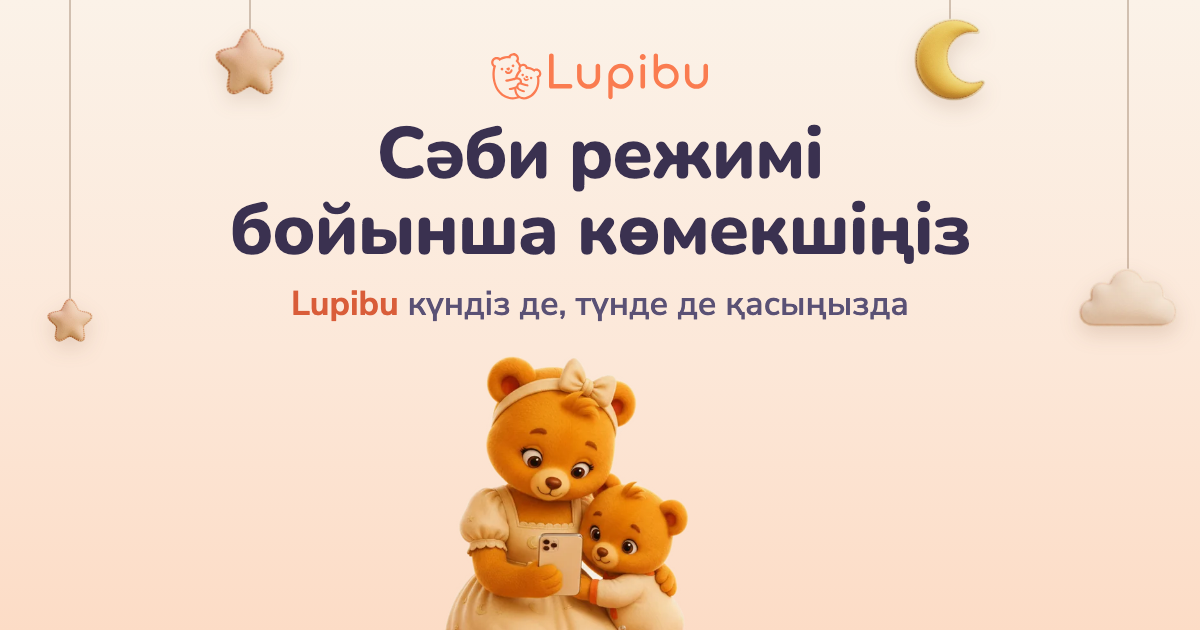
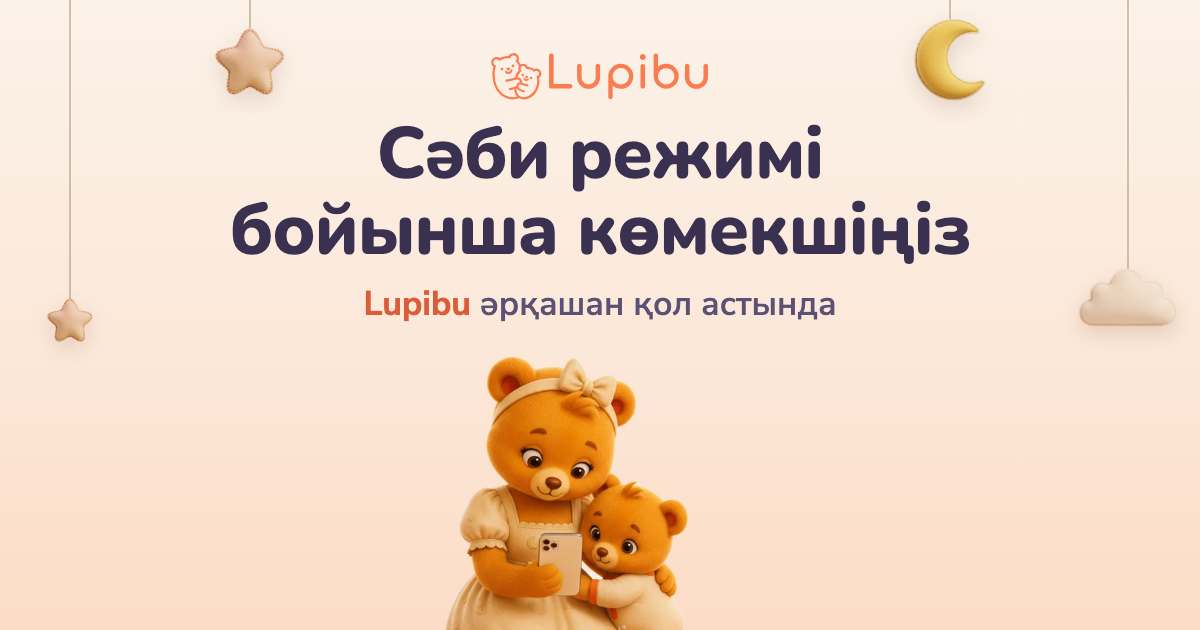
Under the headline: «Lupibu всегда под рукой»
The owner's wording replaces «Lupibu рядом днём и ночью»: with the headline it reads as one thought, a helper
that is always at hand (the phone, the widget, the lock screen). English and Kazakh follow; share cards redrawn.

Changed region(s): [[0.2467, 0.4524, 0.7708, 0.5127]]

diff --git a/kk/index.html b/kk/index.html
@@ -13,18 +13,18 @@
     <meta name="robots" content="index,follow,max-image-preview:large">
     <meta name="googlebot" content="index,follow,max-image-preview:large">
     <meta property="og:title" content="Сәби режимі бойынша көмекшіңіз">
-    <meta property="og:description" content="Lupibu күндіз де, түнде де қасыңызда">
+    <meta property="og:description" content="Lupibu әрқашан қол астында">
     <meta property="og:type" content="website">
     <meta property="og:url" content="https://lupibu.com/kk/">
     <meta property="og:site_name" content="Lupibu">
-    <meta property="og:image" content="https://lupibu.com/assets/og-card-kk.png?v=20261110d">
+    <meta property="og:image" content="https://lupibu.com/assets/og-card-kk.png?v=20261110e">
     <meta property="og:image:width" content="1200">
     <meta property="og:image:height" content="630">
     <meta property="og:image:alt" content="Lupibu: ұйқы болжамы және сәби режимі">
     <meta name="twitter:card" content="summary_large_image">
     <meta name="twitter:title" content="Сәби режимі бойынша көмекшіңіз">
-    <meta name="twitter:description" content="Lupibu күндіз де, түнде де қасыңызда">
-    <meta name="twitter:image" content="https://lupibu.com/assets/og-card-kk.png?v=20261110d">
+    <meta name="twitter:description" content="Lupibu әрқашан қол астында">
+    <meta name="twitter:image" content="https://lupibu.com/assets/og-card-kk.png?v=20261110e">
 
     <link rel="canonical" href="https://lupibu.com/kk/">
     <link rel="alternate" hreflang="ru" href="https://lupibu.com/">
@@ -145,7 +145,7 @@
             <div class="hang hang-star-s"><i></i><img src="/assets/home/star.webp" alt="" width="28" height="27"></div>
             <div class="hero-text">
                 <h1 data-i18n="hero.title">Сәби режимі бойынша көмекшіңіз</h1>
-                <p class="lead" data-i18n="hero.subtitle">Lupibu күндіз де, түнде де қасыңызда</p>
+                <p class="lead" data-i18n="hero.subtitle">Lupibu әрқашан қол астында</p>
                 <div class="cta" id="heroCta">
                     <a href="https://apps.apple.com/app/id6758586869" class="badge" target="_blank" rel="noopener">
                         <img src="/assets/appstore-badge-ru.svg" alt="App Store-дан жүктеу" data-i18n-alt="alt.badge" data-badge width="162" height="54">
@@ -287,7 +287,7 @@
     </div>
 
     <script>window.LUPIBU_DEFAULT_LANG = 'kk';</script>
-    <script src="/i18n.js?v=20261110w"></script>
+    <script src="/i18n.js?v=20261110x"></script>
     <script src="/assets/analytics.js?v=20261110w" defer></script>
     <script src="/main.js?v=20260925a"></script>
     <script src="/home.js?v=20261110w"></script>

diff --git a/index.html b/index.html
@@ -13,18 +13,18 @@
     <meta name="robots" content="index,follow,max-image-preview:large">
     <meta name="googlebot" content="index,follow,max-image-preview:large">
     <meta property="og:title" content="Ваш помощник по режиму малыша">
-    <meta property="og:description" content="Lupibu рядом днём и ночью">
+    <meta property="og:description" content="Lupibu всегда под рукой">
     <meta property="og:type" content="website">
     <meta property="og:url" content="https://lupibu.com/">
     <meta property="og:site_name" content="Lupibu">
-    <meta property="og:image" content="https://lupibu.com/assets/og-card.png?v=20261110d">
+    <meta property="og:image" content="https://lupibu.com/assets/og-card.png?v=20261110e">
     <meta property="og:image:width" content="1200">
     <meta property="og:image:height" content="630">
     <meta property="og:image:alt" content="Lupibu: прогноз сна и режим малыша">
     <meta name="twitter:card" content="summary_large_image">
     <meta name="twitter:title" content="Ваш помощник по режиму малыша">
-    <meta name="twitter:description" content="Lupibu рядом днём и ночью">
-    <meta name="twitter:image" content="https://lupibu.com/assets/og-card.png?v=20261110d">
+    <meta name="twitter:description" content="Lupibu всегда под рукой">
+    <meta name="twitter:image" content="https://lupibu.com/assets/og-card.png?v=20261110e">
 
     <link rel="canonical" href="https://lupibu.com/">
     <link rel="alternate" hreflang="ru" href="https://lupibu.com/">
@@ -145,7 +145,7 @@
             <div class="hang hang-star-s"><i></i><img src="assets/home/star.webp" alt="" width="28" height="27"></div>
             <div class="hero-text">
                 <h1 data-i18n="hero.title">Ваш помощник по&nbsp;режиму малыша</h1>
-                <p class="lead" data-i18n="hero.subtitle">Lupibu рядом днём и&nbsp;ночью</p>
+                <p class="lead" data-i18n="hero.subtitle">Lupibu всегда под&nbsp;рукой</p>
                 <div class="cta" id="heroCta">
                     <a href="https://apps.apple.com/app/id6758586869" class="badge" target="_blank" rel="noopener">
                         <img src="assets/appstore-badge-ru.svg" alt="Загрузите в App Store" data-i18n-alt="alt.badge" data-badge width="162" height="54">
@@ -287,7 +287,7 @@
     </div>
 
     <script>window.LUPIBU_DEFAULT_LANG = 'ru';</script>
-    <script src="i18n.js?v=20261110w"></script>
+    <script src="i18n.js?v=20261110x"></script>
     <script src="assets/analytics.js?v=20261110w" defer></script>
     <script src="main.js?v=20260925a"></script>
     <script src="home.js?v=20261110w"></script>

diff --git a/en/index.html b/en/index.html
@@ -13,18 +13,18 @@
     <meta name="robots" content="index,follow,max-image-preview:large">
     <meta name="googlebot" content="index,follow,max-image-preview:large">
     <meta property="og:title" content="Help with your baby's routine">
-    <meta property="og:description" content="Lupibu is with you day and night">
+    <meta property="og:description" content="Lupibu is always at hand">
     <meta property="og:type" content="website">
     <meta property="og:url" content="https://lupibu.com/en/">
     <meta property="og:site_name" content="Lupibu">
-    <meta property="og:image" content="https://lupibu.com/assets/og-card-en.png?v=20261110d">
+    <meta property="og:image" content="https://lupibu.com/assets/og-card-en.png?v=20261110e">
     <meta property="og:image:width" content="1200">
     <meta property="og:image:height" content="630">
     <meta property="og:image:alt" content="Lupibu: baby sleep forecast and routine">
     <meta name="twitter:card" content="summary_large_image">
     <meta name="twitter:title" content="Help with your baby's routine">
-    <meta name="twitter:description" content="Lupibu is with you day and night">
-    <meta name="twitter:image" content="https://lupibu.com/assets/og-card-en.png?v=20261110d">
+    <meta name="twitter:description" content="Lupibu is always at hand">
+    <meta name="twitter:image" content="https://lupibu.com/assets/og-card-en.png?v=20261110e">
 
     <link rel="canonical" href="https://lupibu.com/en/">
     <link rel="alternate" hreflang="ru" href="https://lupibu.com/">
@@ -145,7 +145,7 @@
             <div class="hang hang-star-s"><i></i><img src="/assets/home/star.webp" alt="" width="28" height="27"></div>
             <div class="hero-text">
                 <h1 data-i18n="hero.title">Help with your baby's routine</h1>
-                <p class="lead" data-i18n="hero.subtitle">Lupibu is with you day and night</p>
+                <p class="lead" data-i18n="hero.subtitle">Lupibu is always at hand</p>
                 <div class="cta" id="heroCta">
                     <a href="https://apps.apple.com/app/id6758586869" class="badge" target="_blank" rel="noopener">
                         <img src="/assets/appstore-badge.svg" alt="Download on the App Store" data-i18n-alt="alt.badge" data-badge width="162" height="54">
@@ -286,7 +286,7 @@
     </div>
 
     <script>window.LUPIBU_DEFAULT_LANG = 'en';</script>
-    <script src="/i18n.js?v=20261110w"></script>
+    <script src="/i18n.js?v=20261110x"></script>
     <script src="/assets/analytics.js?v=20261110w" defer></script>
     <script src="/main.js?v=20260925a"></script>
     <script src="/home.js?v=20261110w"></script>

diff --git a/tools/index.html b/tools/index.html
@@ -13,13 +13,13 @@
     <meta property="og:type" content="website">
     <meta property="og:url" content="https://lupibu.com/tools/">
     <meta property="og:site_name" content="Lupibu">
-    <meta property="og:image" content="https://lupibu.com/assets/og-card.png?v=20261110d">
+    <meta property="og:image" content="https://lupibu.com/assets/og-card.png?v=20261110e">
     <meta property="og:image:width" content="1200">
     <meta property="og:image:height" content="630">
     <meta name="twitter:card" content="summary_large_image">
     <meta name="twitter:title" content="Когда укладывать малыша: расчёт сна по возрасту | Lupibu">
     <meta name="twitter:description" content="Укажите возраст малыша и время пробуждения: страница покажет время следующего сна. Расчёт по возрасту, в ознакомительных целях.">
-    <meta name="twitter:image" content="https://lupibu.com/assets/og-card.png?v=20261110d">
+    <meta name="twitter:image" content="https://lupibu.com/assets/og-card.png?v=20261110e">
 
     <link rel="canonical" href="https://lupibu.com/tools/">
     <link rel="alternate" hreflang="ru" href="https://lupibu.com/tools/">
@@ -147,7 +147,7 @@
     </footer>
 
     <script>window.LUPIBU_DEFAULT_LANG = 'ru';</script>
-    <script src="/i18n.js?v=20261110w"></script>
+    <script src="/i18n.js?v=20261110x"></script>
     <script src="/assets/analytics.js?v=20261110w" defer></script>
     <script src="/main.js?v=20260925a"></script>
     <script src="/home.js?v=20261110w"></script>

diff --git a/kk/tools/index.html b/kk/tools/index.html
@@ -13,13 +13,13 @@
     <meta property="og:type" content="website">
     <meta property="og:url" content="https://lupibu.com/kk/tools/">
     <meta property="og:site_name" content="Lupibu">
-    <meta property="og:image" content="https://lupibu.com/assets/og-card-kk.png?v=20261110d">
+    <meta property="og:image" content="https://lupibu.com/assets/og-card-kk.png?v=20261110e">
     <meta property="og:image:width" content="1200">
     <meta property="og:image:height" content="630">
     <meta name="twitter:card" content="summary_large_image">
     <meta name="twitter:title" content="Сәбиді қашан ұйықтату керек: жасқа сай ұйқы есебі | Lupibu">
     <meta name="twitter:description" content="Сәбидің жасы мен оянған уақытын көрсетіңіз: бет келесі ұйқы уақытын көрсетеді. Жасқа сай есеп, танысу мақсатында.">
-    <meta name="twitter:image" content="https://lupibu.com/assets/og-card-kk.png?v=20261110d">
+    <meta name="twitter:image" content="https://lupibu.com/assets/og-card-kk.png?v=20261110e">
 
     <link rel="canonical" href="https://lupibu.com/kk/tools/">
     <link rel="alternate" hreflang="ru" href="https://lupibu.com/tools/">
@@ -147,7 +147,7 @@
     </footer>
 
     <script>window.LUPIBU_DEFAULT_LANG = 'kk';</script>
-    <script src="/i18n.js?v=20261110w"></script>
+    <script src="/i18n.js?v=20261110x"></script>
     <script src="/assets/analytics.js?v=20261110w" defer></script>
     <script src="/main.js?v=20260925a"></script>
     <script src="/home.js?v=20261110w"></script>

diff --git a/en/tools/index.html b/en/tools/index.html
@@ -13,13 +13,13 @@
     <meta property="og:type" content="website">
     <meta property="og:url" content="https://lupibu.com/en/tools/">
     <meta property="og:site_name" content="Lupibu">
-    <meta property="og:image" content="https://lupibu.com/assets/og-card-en.png?v=20261110d">
+    <meta property="og:image" content="https://lupibu.com/assets/og-card-en.png?v=20261110e">
     <meta property="og:image:width" content="1200">
     <meta property="og:image:height" content="630">
     <meta name="twitter:card" content="summary_large_image">
     <meta name="twitter:title" content="When to put your baby down: nap time by age | Lupibu">
     <meta name="twitter:description" content="Enter your baby's age and wake-up time to see when the next sleep is due. An estimate by age, for information only.">
-    <meta name="twitter:image" content="https://lupibu.com/assets/og-card-en.png?v=20261110d">
+    <meta name="twitter:image" content="https://lupibu.com/assets/og-card-en.png?v=20261110e">
 
     <link rel="canonical" href="https://lupibu.com/en/tools/">
     <link rel="alternate" hreflang="ru" href="https://lupibu.com/tools/">
@@ -147,7 +147,7 @@
     </footer>
 
     <script>window.LUPIBU_DEFAULT_LANG = 'en';</script>
-    <script src="/i18n.js?v=20261110w"></script>
+    <script src="/i18n.js?v=20261110x"></script>
     <script src="/assets/analytics.js?v=20261110w" defer></script>
     <script src="/main.js?v=20260925a"></script>
     <script src="/home.js?v=20261110w"></script>

diff --git a/i18n.js b/i18n.js
@@ -14,7 +14,7 @@ const translations = {
         'hero.b2': 'When did I last feed?',
         'hero.b3': "Why won't my baby sleep?",
         'hero.title': "Help with your baby's routine",
-        'hero.subtitle': "Lupibu is with you day and night",
+        'hero.subtitle': "Lupibu is always at hand",
 
         'cmp.title': 'Your day, back in your hands',
         'cmp.without': 'Without Lupibu',
@@ -121,7 +121,7 @@ const translations = {
         'hero.b2': 'Когда кормила?',
         'hero.b3': 'Почему не спит?',
         'hero.title': 'Ваш помощник по\u00a0режиму малыша',
-        'hero.subtitle': 'Lupibu рядом днём и\u00a0ночью',
+        'hero.subtitle': 'Lupibu всегда под\u00a0рукой',
 
         'cmp.title': 'Ваш день в Ваших руках',
         'cmp.without': 'Без Lupibu',
@@ -224,7 +224,7 @@ const translations = {
         'hero.b2': 'Қашан тамақтандырдым?',
         'hero.b3': 'Неге ұйықтамайды?',
         'hero.title': 'Сәби режимі бойынша көмекшіңіз',
-        'hero.subtitle': 'Lupibu күндіз де, түнде де қасыңызда',
+        'hero.subtitle': 'Lupibu әрқашан қол астында',
 
         'cmp.title': 'Күніңіз өз қолыңызда',
         'cmp.without': 'Lupibu-сыз',
